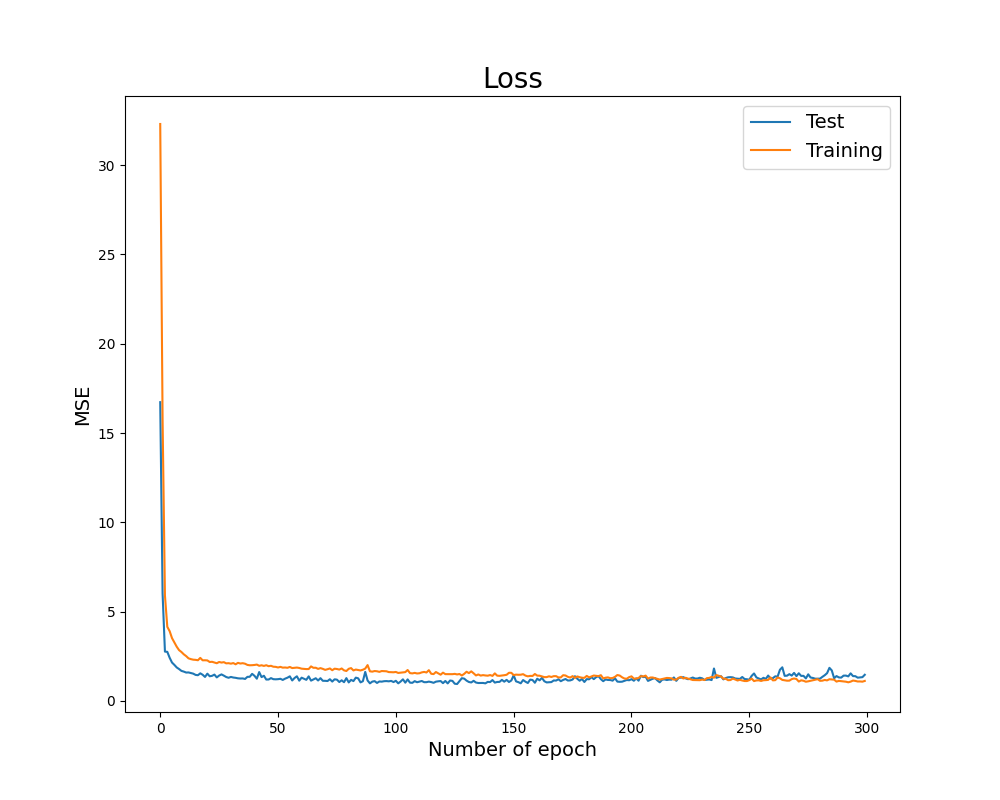
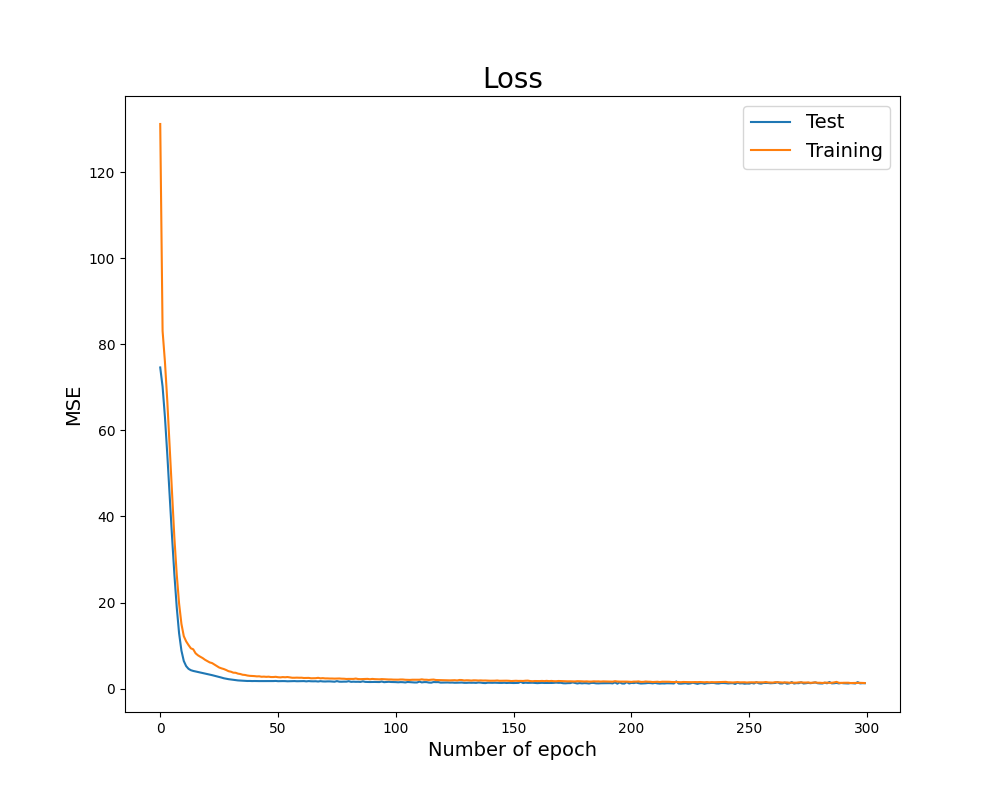
testing split data

diff --git a/preprocessing_project.py b/preprocessing_project.py
@@ -1007,7 +1007,7 @@ def training_vim_test(train_x, train_y, test_x, test_y, epoch, name):
 
     # Save the trained model
     current_dir = os.getcwd()
-    model_save_path = os.path.join(current_dir, 'pengujian_epoch', 'vim', 'vim_model_2.pth')
+    model_save_path = os.path.join(current_dir, 'pengujian_split_data', '80-20', 'vim_model_0.pth')
     # model_save_path = 'vim_model.pth'
     torch.save(model.state_dict(), model_save_path)
     print(f'Model saved to {model_save_path}')
@@ -1411,7 +1411,7 @@ def main():
                                                             file_residues_paths, max_res_list_h, max_res_list_l, heavy, light)
 
     # Create the test set
-    train_x, test_x, train_y, test_y, idx_tr, idx_te = create_test_set(train_x, train_y, test_size=0.023, random_state=23)
+    train_x, test_x, train_y, test_y, idx_tr, idx_te = create_test_set(train_x, train_y, test_size=0.2, random_state=23)
 
 
     # Training VIM with fix parameters
@@ -1420,13 +1420,13 @@ def main():
     # plot_vim(loss_values, correlation_values, num_epochs, name='training_performance_vim_200_epoch')
 
     model, train_loss_values, train_correlation_values, test_loss_values, test_correlation_values, num_epochs, time = training_vim_test(train_x, 
-    train_y, test_x, test_y, epoch=300, name='')
+    train_y, test_x, test_y, epoch=100, name='')
     plot_vim_combined(
         train_loss_values, test_loss_values, train_correlation_values, test_correlation_values, num_epochs, time, 
-        name='training_performance_vim_300_epoch_0'
+        name='training_performance_vim_100_epoch_0'
     )
     test_mse, test_corr, outputs_flat, targets_flat = test_vim(model, test_x, test_y)
-    plot_test_results(outputs_flat, targets_flat, test_corr, test_mse, name='R_performace_vim_300_epoch_0')
+    plot_test_results(outputs_flat, targets_flat, test_corr, test_mse, name='R_performace_vim_100_epoch_0')
 
     # # Set CUDA_LAUNCH_BLOCKING to help with debugging
     # os.environ["CUDA_LAUNCH_BLOCKING"] = "1"
@@ -1496,7 +1496,7 @@ def main():
     test_losses = []
 
     model.train()
-    n_max_epochs = 300 # This is just a super short example. You can increase this.
+    n_max_epochs = 100 # This is just a super short example. You can increase this.
     max_corr = 0.95
     batch_size = 32
 
@@ -1513,13 +1513,13 @@ def main():
     test_losses.extend(test_loss)
 
     # Save the trained model
-    model_save_path = os.path.join(current_dir, 'pengujian_epoch', 'cnn', 'cnn_model_2.pth')
+    model_save_path = os.path.join(current_dir, 'pengujian_split_data', '80-20', 'cnn_model_0.pth')
     # model_save_path = 'cnn_model.pth'
     torch.save(model.state_dict(), model_save_path)
     print(f'Model saved to {model_save_path}')
 
-    plot_r_cnn(output_test, y_test, name='R_training_performance_cnn_300_epoch_0')
-    plot_loss_cnn(test_losses, train_losses, name='loss_training_performance_cnn_300_epoch_0')
+    plot_r_cnn(output_test, y_test, name='R_training_performance_cnn_100_epoch_0')
+    plot_loss_cnn(test_losses, train_losses, name='loss_training_performance_cnn_100_epoch_0')
 
 
 if __name__ == '__main__':
